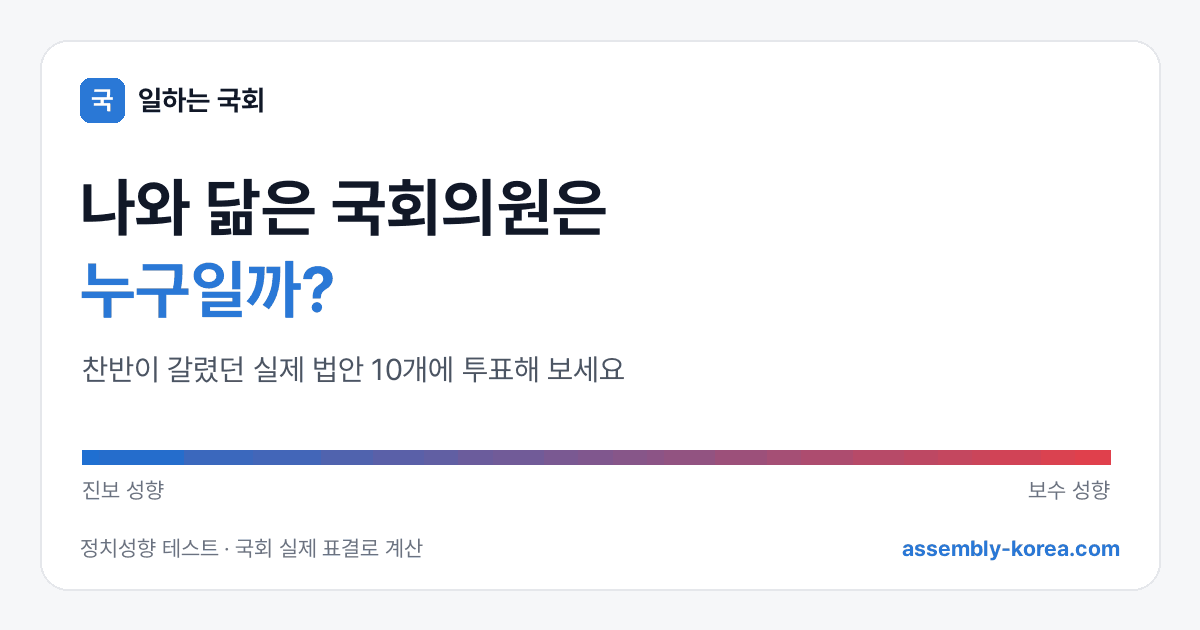
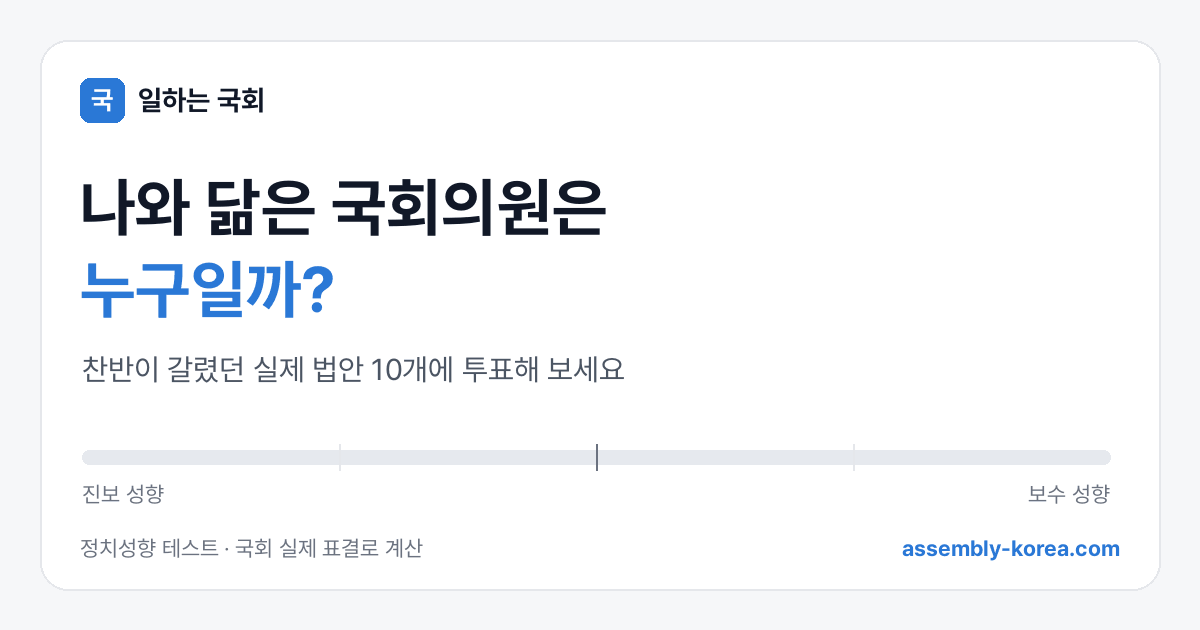
Quiz share card: result-specific link previews and a saveable story image
A shared /quiz?s= link now previews the answerer's leaning (one card per
leaning, /og/q/*.png) with the most similar member's name in the title.
The result page gets a button that draws a 1080x1350 result image and
shares it as a file where the browser can, otherwise downloads it.
The quiz cards use neutral greys instead of a blue-red strip.

Claude-Session: https://claude.ai/code/session_016xsL9qwkWheDrahKAgesye

Changed region(s): [[0.0617, 0.6937, 0.925, 0.8143]]

diff --git a/app/public/js/quiz.js b/app/public/js/quiz.js
@@ -120,6 +120,62 @@
     return side;
   }
 
+  // a 1080x1350 picture of the result for stories and chats, drawn in neutral
+  // greys (no party colours); shared as a file where the browser can, else saved
+  function resultImage(me, top) {
+    const W = 1080, H = 1350, c = document.createElement('canvas');
+    c.width = W; c.height = H;
+    const g = c.getContext('2d');
+    const F = getComputedStyle(document.body).fontFamily || 'sans-serif';
+    const f = (px, w = 800) => `${w} ${px}px ${F}`;
+    g.fillStyle = '#f3f4f6'; g.fillRect(0, 0, W, H);
+    g.fillStyle = '#ffffff'; g.beginPath(); g.roundRect(60, 60, W - 120, H - 120, 48); g.fill();
+    g.fillStyle = '#2a78d6'; g.beginPath(); g.roundRect(120, 130, 64, 64, 14); g.fill();
+    g.fillStyle = '#fff'; g.font = f(38); g.textAlign = 'center'; g.textBaseline = 'middle'; g.fillText('국', 152, 163);
+    g.textAlign = 'left'; g.fillStyle = '#111827'; g.font = f(40); g.fillText('일하는 국회', 204, 163);
+    g.textBaseline = 'alphabetic';
+    g.fillStyle = '#4b5563'; g.font = f(54, 700); g.fillText('나의 표결 성향은', 120, 360);
+    g.fillStyle = '#111827'; g.font = f(124); g.fillText(`'${lean(me)}'`, 112, 510);
+    // left-right line with "나"
+    const x0 = 140, x1 = W - 140, y = 650;
+    g.fillStyle = '#e6e9ee'; g.beginPath(); g.roundRect(x0, y, x1 - x0, 22, 11); g.fill();
+    g.fillStyle = '#9ca3af'; g.fillRect((x0 + x1) / 2 - 2, y - 12, 4, 46);
+    g.fillStyle = '#6b7280'; g.font = f(32, 500); g.fillText('진보 성향', x0, y + 84);
+    g.textAlign = 'right'; g.fillText('보수 성향', x1, y + 84); g.textAlign = 'left';
+    if (me !== null) {
+      const x = x0 + ((me + 1) / 2) * (x1 - x0);
+      g.fillStyle = '#111827'; g.beginPath(); g.arc(x, y + 11, 38, 0, Math.PI * 2); g.fill();
+      g.strokeStyle = '#fff'; g.lineWidth = 6; g.stroke();
+      g.fillStyle = '#fff'; g.font = f(34); g.textAlign = 'center'; g.textBaseline = 'middle'; g.fillText('나', x, y + 12);
+      g.textAlign = 'left'; g.textBaseline = 'alphabetic';
+    }
+    if (top) {
+      g.fillStyle = '#f3f4f6'; g.beginPath(); g.roundRect(120, 840, W - 240, 230, 28); g.fill();
+      g.fillStyle = '#4b5563'; g.font = f(36, 600); g.fillText('나와 가장 비슷하게 투표한 의원', 170, 915);
+      g.fillStyle = '#111827'; g.font = f(76); g.fillText(`${D.members[top.id][0]} 의원`, 170, 1015);
+      g.textAlign = 'right'; g.font = f(76); g.fillText(`${Math.round(top.rate * 100)}%`, W - 170, 1015); g.textAlign = 'left';
+    }
+    g.fillStyle = '#6b7280'; g.font = f(32, 500); g.fillText('찬반이 갈렸던 실제 법안 10개로 계산', 120, 1170);
+    g.fillStyle = '#2a78d6'; g.font = f(38); g.fillText('assembly-korea.com/quiz', 120, 1230);
+    return c;
+  }
+
+  function saveImage(me, top) {
+    const c = resultImage(me, top);
+    c.toBlob((blob) => {
+      if (!blob) return;
+      const file = new File([blob], 'my-quiz-result.png', { type: 'image/png' });
+      if (navigator.canShare && navigator.canShare({ files: [file] })) {
+        navigator.share({ files: [file], title: '나의 표결 성향' }).catch(() => {});
+        return;
+      }
+      const a = document.createElement('a');
+      a.href = URL.createObjectURL(blob); a.download = file.name;
+      document.body.appendChild(a); a.click(); a.remove();
+      setTimeout(() => URL.revokeObjectURL(a.href), 2000);
+    }, 'image/png');
+  }
+
   function result(shared) {
     const { qs, me, people, parties } = compute();
     const top = people.slice(0, 3);
@@ -165,6 +221,7 @@
         <div class="recap-row recap-head"><span>질문</span><span>나의 선택</span><span>양당 다수의 실제 표결 (질문 기준)</span></div>${recap}</div></div>
       <div class="quiz-actions section">
         <div id="share"></div>
+        <button type="button" class="btn btn-primary" id="save-img">결과 이미지 저장 · 스토리 공유</button>
         <button type="button" class="btn" id="again">다시 하기</button>
       </div>
       <p class="muted quiz-note">계산 방법: 각 의원과 정당(그날 소속 의원 다수의 선택)이 같은 법안에 실제로 찬성·반대한 기록과 비교했습니다. 성향 위치는 여야가 갈린 본회의 표결 123건 전체에서 의원들의 표결 패턴을 한 줄로 요약한 값이며, 왼쪽·오른쪽 이름은 실제 정당 위치를 따랐습니다. 재미로 보는 참고 자료입니다. 기준일 ${kdate(D.as_of)}.</p>
@@ -172,6 +229,7 @@
     shareBar(document.getElementById('share'), { title: '나와 닮은 국회의원 찾기', text: `내 표결 성향은 "${lean(me)}". 나와 가장 비슷한 의원은 ${top[0] ? D.members[top[0].id][0] : '?'} 의원! 너도 해봐` });
     const restart = () => { history.replaceState(null, '', location.pathname); intro(); };
     document.getElementById('again').addEventListener('click', restart);
+    document.getElementById('save-img').addEventListener('click', () => saveImage(me, top[0] || null));
     document.getElementById('mine')?.addEventListener('click', restart);
     root.scrollIntoView({ block: 'start' });
   }

diff --git a/app/lib/quiz-score.js b/app/lib/quiz-score.js
@@ -1,0 +1,33 @@
+// The quiz result for a shared ?s= code, computed on the server for link
+// previews. Same rules as public/js/quiz.js (compute, lean): keep the two in step.
+
+export function leanOf(me) {
+  if (me === null) return null;
+  const a = Math.abs(me);
+  if (a < 0.15) return { key: 'center', label: '중도' };
+  const side = me < 0 ? '진보' : '보수';
+  const strong = a >= 0.45;
+  return { key: `${strong ? '' : 'c'}${me < 0 ? 'prog' : 'cons'}`, label: strong ? side : `중도 ${side}` };
+}
+
+export function quizResult(D, code) {
+  if (!code || code.length !== D.questions.length || !/^[YNS]+$/.test(code)) return null;
+  const answers = code.split('');
+  const qs = answers.map((a, k) => k).filter((k) => answers[k] === 'Y' || answers[k] === 'N');
+  const pos = [];
+  for (const k of qs) {
+    const side = Object.entries(D.answers).filter(([id, s]) => s[k] === answers[k] && D.members[id] && D.members[id][3] !== null)
+      .map(([id]) => D.members[id][3]);
+    if (side.length) pos.push(side.reduce((a, b) => a + b, 0) / side.length);
+  }
+  const me = pos.length ? pos.reduce((a, b) => a + b, 0) / pos.length : null;
+  const need = Math.min(5, qs.length);
+  const people = Object.entries(D.answers).map(([id, s]) => {
+    let both = 0, same = 0;
+    for (const k of qs) if (s[k] === 'Y' || s[k] === 'N') { both += 1; same += s[k] === answers[k]; }
+    return { id, both, same, rate: both ? same / both : 0 };
+  }).filter((p) => p.both >= need && D.members[p.id]);
+  people.sort((a, b) => b.rate - a.rate || b.both - a.both || (D.members[a.id][0] < D.members[b.id][0] ? -1 : 1));
+  const top = people[0];
+  return { lean: leanOf(me), top: top ? { name: D.members[top.id][0], rate: top.rate } : null };
+}

diff --git a/app/functions/quiz.js b/app/functions/quiz.js
@@ -1,0 +1,27 @@
+// GET /quiz — for a shared result (?s=answers) the link preview shows that
+// result: a card for the answerer's leaning and the most similar member's name.
+import { setAttr, appendHtml } from '../lib/seo.js';
+import { quizResult } from '../lib/quiz-score.js';
+
+export async function onRequestGet({ env, request, next }) {
+  const res = await next();
+  const url = new URL(request.url);
+  const code = url.searchParams.get('s');
+  if (!code || !res.headers.get('content-type')?.includes('text/html')) return res;
+  let r = null;
+  try {
+    const d = await env.ASSETS.fetch(new URL('/quiz-data.json', url));
+    if (d.ok) r = quizResult(await d.json(), code);
+  } catch {
+    r = null;
+  }
+  if (!r || !r.lean) return res;
+  const title = `내 표결 성향은 '${r.lean.label}'${r.top ? ` · 나와 닮은 의원은 ${r.top.name}` : ''}`;
+  const desc = `${r.top ? `${r.top.name} 의원과 ${Math.round(r.top.rate * 100)}% 같은 선택을 했어요. ` : ''}찬반이 갈렸던 실제 법안 10개로 보는 나의 성향, 너도 해볼래?`;
+  return new HTMLRewriter()
+    .on('meta[property="og:title"]', setAttr('content', title))
+    .on('meta[property="og:description"]', setAttr('content', desc))
+    .on('meta[property="og:image"]', setAttr('content', `${url.origin}/og/q/${r.lean.key}.png`))
+    .on('head', appendHtml('<meta name="robots" content="noindex, follow">'))
+    .transform(res);
+}

diff --git a/app/public/quiz.html b/app/public/quiz.html
@@ -9,8 +9,8 @@
 <link rel="icon" href="/favicon.svg" type="image/svg+xml">
 <meta property="og:type" content="website">
 <meta property="og:site_name" content="일하는 국회">
-<meta property="og:title" content="일하는 국회 — 제22대 국회의원 실적 대시보드">
-<meta property="og:description" content="공식 기록으로 보는 국회의원 입법·표결·출석 실적과 상대평가 등급">
+<meta property="og:title" content="나와 닮은 국회의원은 누구일까? · 정치성향 테스트">
+<meta property="og:description" content="실제 국회에서 찬반이 갈렸던 법안 10개에 직접 투표하고, 나와 가장 비슷하게 투표한 국회의원을 찾아보세요">
 <meta property="og:image" content="https://assembly-korea.com/og/quiz.png">
 <meta property="og:image:width" content="1200">
 <meta property="og:image:height" content="630">
@@ -59,6 +59,6 @@
 </footer>
 
 <script src="/js/common.js?v=090e71ea"></script>
-<script src="/js/quiz.js?v=64b8f40e"></script>
+<script src="/js/quiz.js?v=d9fa6e4c"></script>
 </body>
 </html>

diff --git a/app/pipeline/og.py b/app/pipeline/og.py
@@ -270,19 +270,40 @@ def party_image(records, scores, as_of):
     return im
 
 
+def strip(d, y, marker=None):
+    """left-right line in neutral greys (no party colours), with an optional marker in -1..1"""
+    x0, x1 = 82, W - 90
+    d.rounded_rectangle((x0, y, x1, y + 14), radius=7, fill=TRACK)
+    for k in (0.25, 0.5, 0.75):
+        x = x0 + (x1 - x0) * k
+        d.line((x, y - 6, x, y + 20), fill=BORDER if k != 0.5 else TEXT3, width=2)
+    d.text((x0, y + 44), '진보 성향', font=font(22), fill=TEXT3, anchor='lm')
+    d.text((x1, y + 44), '보수 성향', font=font(22), fill=TEXT3, anchor='rm')
+    if marker is not None:
+        x = x0 + (x1 - x0) * (marker + 1) / 2
+        d.ellipse((x - 22, y - 15, x + 22, y + 29), fill=TEXT, outline=SURFACE, width=4)
+        d.text((x, y + 7), '나', font=font(22, True), fill='#ffffff', anchor='mm')
+
+
+QUIZ_LEANS = [('prog', '진보', -0.62), ('cprog', '중도 진보', -0.3), ('center', '중도', 0.0), ('ccons', '중도 보수', 0.3), ('cons', '보수', 0.62)]
+
+
+def quiz_result_image(label, pos):
+    im, d = canvas()
+    d.text((80, 200), '나의 표결 성향은', font=font(40, True), fill=TEXT2, anchor='ls')
+    d.text((80, 300), f"'{label}'", font=font(84, True), fill=TEXT, anchor='ls')
+    d.text((82, 362), '실제 국회 표결 10개로 계산 · 나와 닮은 국회의원은 누구?', font=font(28), fill=TEXT2, anchor='ls')
+    strip(d, 450, pos)
+    footer(d, '정치성향 테스트 · 너도 해보기')
+    return im
+
+
 def quiz_image():
     im, d = canvas()
     d.text((80, 230), '나와 닮은 국회의원은', font=font(64, True), fill=TEXT, anchor='ls')
     d.text((80, 312), '누구일까?', font=font(64, True), fill=ACCENT, anchor='ls')
     d.text((82, 380), '찬반이 갈렸던 실제 법안 10개에 투표해 보세요', font=font(30), fill=TEXT2, anchor='ls')
-    # left-right strip with a marker
-    x0, x1, y = 82, W - 90, 450
-    for k in range(60):
-        t = k / 59
-        c = tuple(int(a + (b - a) * t) for a, b in zip((31, 111, 209), (226, 64, 75)))
-        d.rectangle((x0 + (x1 - x0) * k / 60, y, x0 + (x1 - x0) * (k + 1) / 60, y + 14), fill=c)
-    d.text((x0, y + 40), '진보 성향', font=font(22), fill=TEXT3, anchor='lm')
-    d.text((x1, y + 40), '보수 성향', font=font(22), fill=TEXT3, anchor='rm')
+    strip(d, 450)
     footer(d, '정치성향 테스트 · 국회 실제 표결로 계산')
     return im
 
@@ -296,6 +317,8 @@ def build_all(records, run, vote_index, vote_pages_dir, as_of):
     written += save(generic_vote_image(as_of), out / 'vote.png')
     written += save(party_image(records, scores, as_of), out / 'party.png')
     written += save(quiz_image(), out / 'quiz.png')
+    for key, label, pos in QUIZ_LEANS:
+        written += save(quiz_result_image(label, pos), out / 'q' / f'{key}.png')
     keep_m = set()
     for m in records:
         keep_m.add(m['id'])
